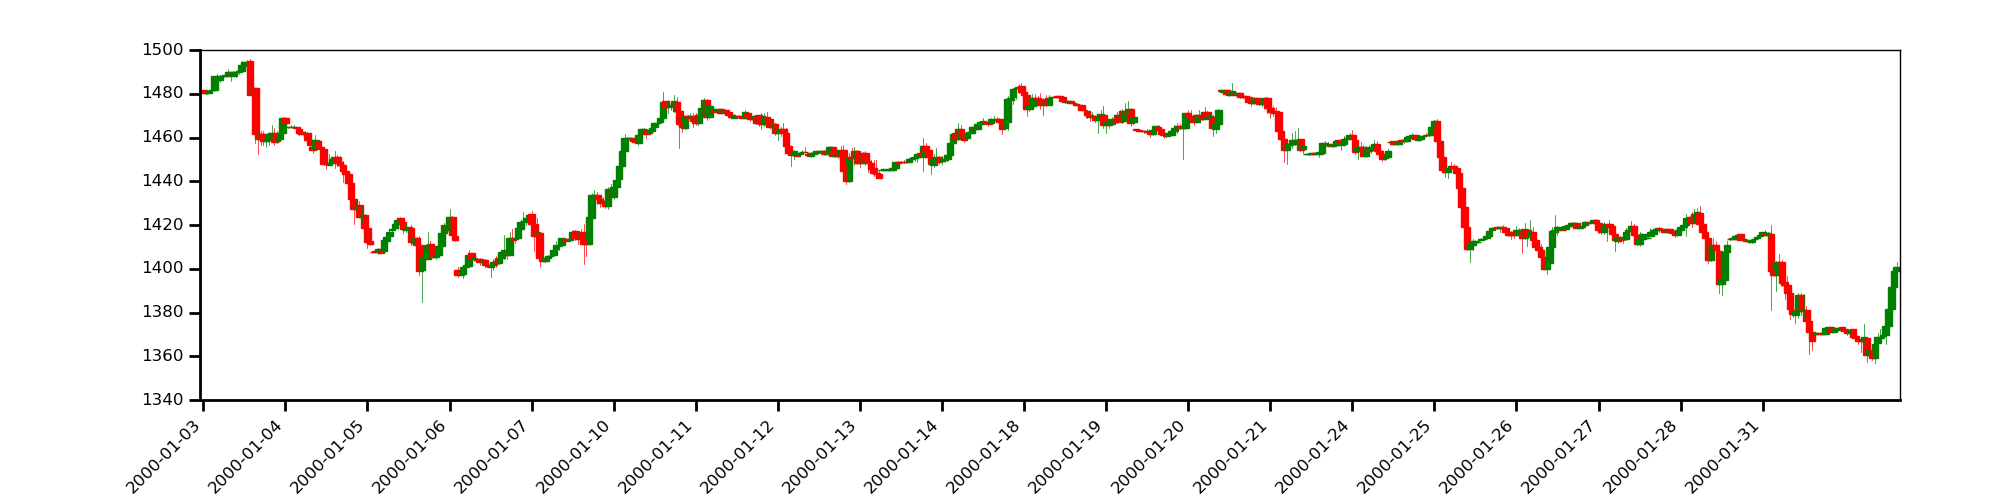
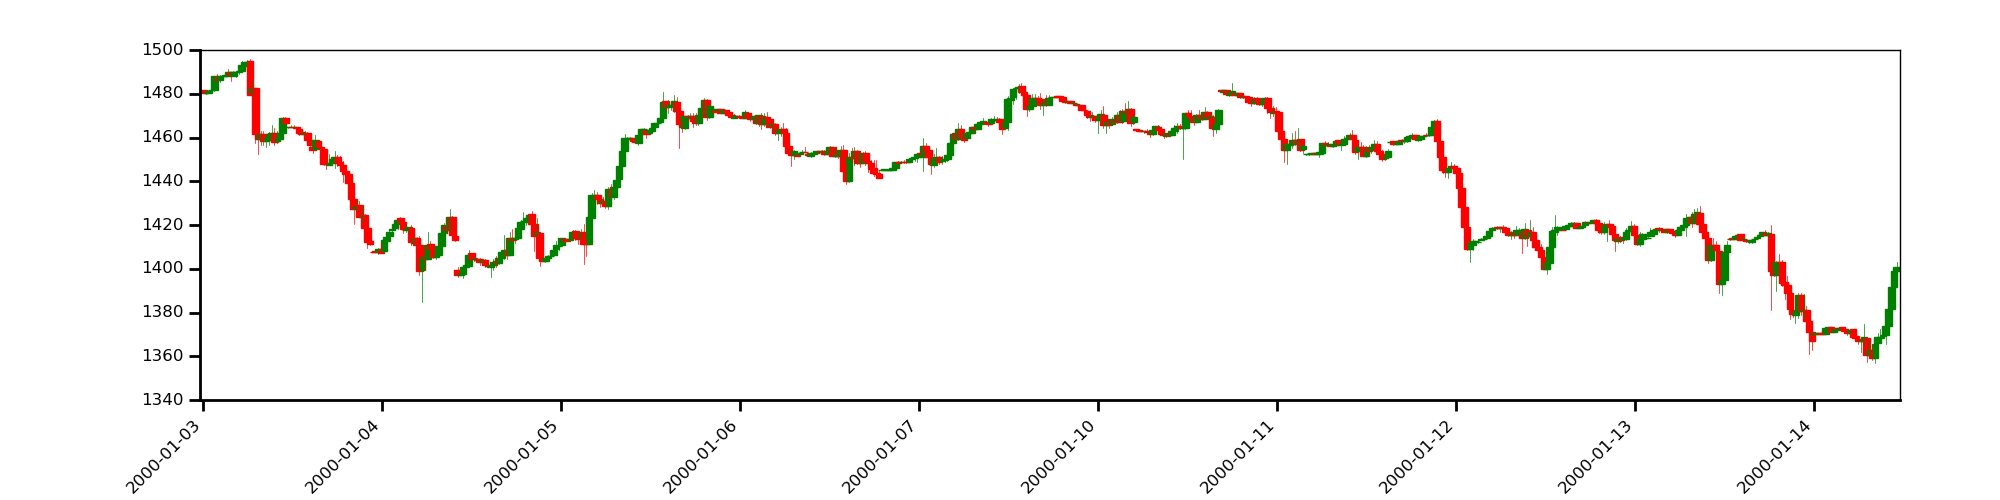
gsstgrgrgyr

diff --git a/analize/charting_data.py b/analize/charting_data.py
@@ -32,11 +32,13 @@ for i in range(1):  # len(df.columns)):
     # print price    
 
     ndays = np.unique(np.trunc(price['num_date']), return_index=True)
+    day_count = len(ndays[0])
     xdays =  []
-    for n in np.arange(len(ndays[0])):
+    for n in np.arange(day_count):
         xdays.append(datetime.date.isoformat(num2date(ndays[0][n])))
 
-    newdays = [price['num_date'][0] + i * 0.625 for i in np.arange(len(ndays[0]))]
+    diff = (price['num_date'][len(price['new_date'])-1]-price['new_date'][0]) / (day_count+1)
+    newdays = [price['num_date'][0] + i * diff for i in np.arange(day_count)]
     
     fig = plt.figure(figsize=(20, 5))
     ax = fig.add_axes([0.1, 0.2, 0.85, 0.7])
